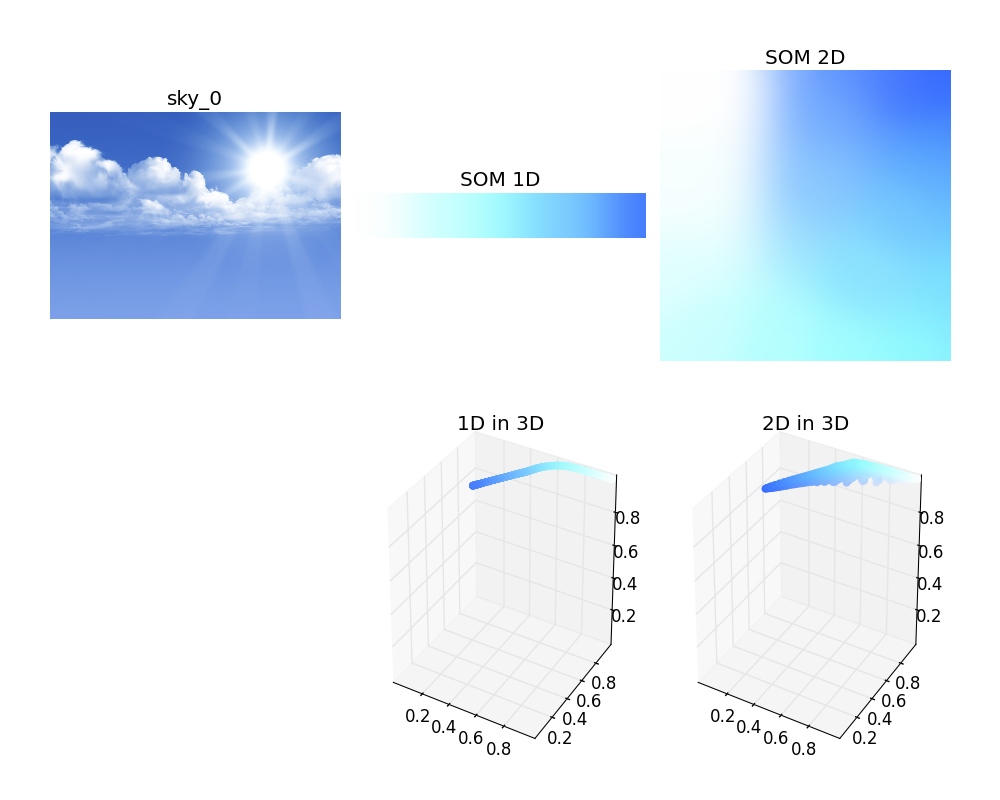
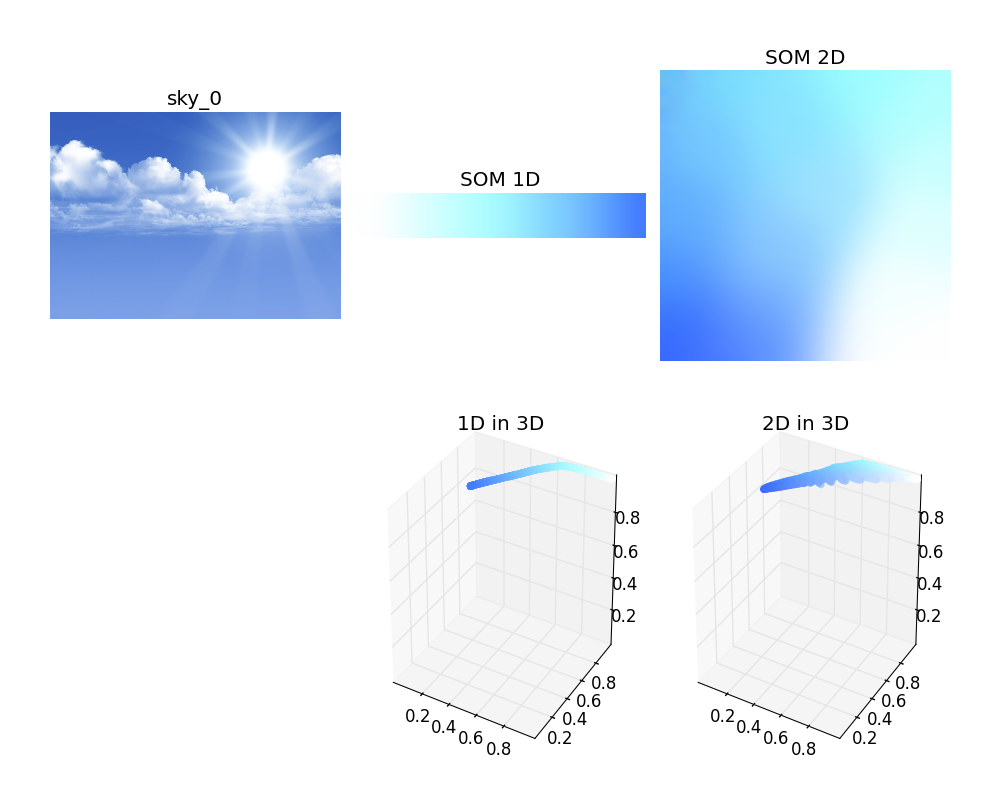
Update main modules.

Changed region(s): [[0.651, 0.0625, 0.961, 0.4688], [0.527, 0.5625, 0.558, 0.5938]]

diff --git a/som_cm/datasets/google_image.py b/som_cm/datasets/google_image.py
@@ -10,11 +10,12 @@
 import json
 import os
 import urllib2
+import httplib2
 
 import cv2
 import matplotlib.pyplot as plt
 
-from som_cm.io.image import loadRGBA, loadRGB, saveRGB
+from som_cm.io_util.image import loadRGB, saveRGB
 
 _root_dir = os.path.dirname(__file__)
 
@@ -55,68 +56,111 @@ def loadData(data_name, i):
     return loadRGB(data_file)
 
 
-def searchImages(keyword, num_images):
+## Simple image loaders via Google image API.
+class GoogleImageLoader:
+    ## Constructor
+    #  @param keyword     keyword for image search.
+    #  @param num_images  target number of images for the search.
+    #  @param update      Update existing images if the value is True.
+    def __init__(self, keyword="banana", num_images=10, update=False):
+        self._keyword = keyword
+        self._num_images = num_images
+        self._data_dir = dataDir(keyword)
+        self._update = update
 
-    url_list = []
-    url = "http://ajax.googleapis.com/ajax/services/search/images?q={0}&v=1.0&rsz=large&start={1}"
+        self.searchImageURLs()
+        self.downloadImages()
+        self.postResize()
 
-    for i in range((num_images / 8) + 1):
-        res = urllib2.urlopen(url.format(keyword, i * 8))
-        data = json.load(res)
-        url_list += [result["url"] for result in data["responseData"]["results"]]
+    def searchImageURLs(self):
+        keyword = self._keyword
+        num_images = self._num_images
 
-    return url_list
+        image_urls = []
+        google_api = "http://ajax.googleapis.com/ajax/services/search/images?q={0}&v=1.0&rsz=large&start={1}&imgc=color"
+
+        for i in range((num_images / 8) + 1):
+            res = urllib2.urlopen(google_api.format(keyword, i * 8))
+            page_data = json.load(res)
+            page_urls = [result["url"] for result in page_data["responseData"]["results"]]
+            image_urls.extend(page_urls)
+
+        if len(image_urls) >= num_images:
+            image_urls = image_urls[:num_images]
+        self._image_urls = image_urls
+        return image_urls
+
+    def downloadImages(self):
+        print "  Download"
+        data_name = self._keyword
+        num_images = self._num_images
+        image_urls = self._image_urls
+        data_dir = self._data_dir
+        if os.path.exists(data_dir) == False:
+            os.makedirs(data_dir)
+
+        http = httplib2.Http(".cache")
+
+        for i in range(len(set(image_urls))):
+            try:
+                url_name, ext = os.path.splitext(image_urls[i])
+
+                data_filename = "%s_%s%s" % (data_name, i, ext)
+                data_filepath = os.path.join(data_dir, data_filename)
+
+                if not self._update:
+                    if os.path.exists(data_filepath):
+                        print "  - Skip: %s" % data_filename
+                        continue
+
+                response, content = http.request(image_urls[i])
+
+                with open(data_filepath, 'wb') as data_file:
+                    data_file.write(content)
+
+                    print "  - Done: %s" % data_filename
+            except:
+                continue
+
+    def postResize(self):
+        print "  Post resize"
+        data_name = self._keyword
+        data_files = dataFiles(data_name)
+
+        for data_file in data_files:
+            data_filename = os.path.basename(data_file)
+            C_8U = loadRGB(data_file)
+
+            if C_8U is None:
+                os.remove(data_file)
+                print "  - Delete: %s" % data_filename
+                continue
+            h, w = C_8U.shape[0:2]
+
+            opt_scale = 800.0 / float(h)
+            opt_scale = max(opt_scale, 800.0 / float(w))
+            opt_scale = min(opt_scale, 1.0)
+
+            h_opt = int(opt_scale * h)
+            w_opt = int(opt_scale * w)
+
+            C_8U_small = cv2.resize(C_8U, (w_opt, h_opt))
+            saveRGB(data_file, C_8U_small)
+            print "  - Resized: %s" % data_filename
 
 
-def downloadImages(data_name, num_images):
-    url_list = searchImages(data_name, num_images)
-    data_dir = os.path.join(_root_dir, data_name)
-    if os.path.exists(data_dir) == False:
-        os.makedirs(data_dir)
-
-    opener = urllib2.build_opener()
-
-    for i in range(len(set(url_list))):
-        try:
-            fn, ext = os.path.splitext(url_list[i])
-            req = urllib2.Request(url_list[i], headers={"User-Agent": "Magic Browser"})
-            data_file = open(os.path.join(data_dir, "%s_%s%s" % (data_name, i, ext)), "wb")
-            data_file.write(opener.open(req).read())
-            data_file.close()
-            print("Downloaded:"+str(i+1))
-        except:
-            continue
-
-def resizeImages(data_name):
-    data_files = dataFiles(data_name)
-
-    for data_file in dataFiles(data_name):
-        C_8U = loadRGB(data_file)
-        if C_8U is None:
-            os.remove(data_file)
-            continue
-        h, w = C_8U.shape[0:2]
-        print h, w
-        opt_scale = 800.0 / float(h)
-        opt_scale = max(opt_scale, 800.0 / float(w))
-        print opt_scale
-
-        h_opt = int(opt_scale * h)
-        w_opt = int(opt_scale * w)
-
-        C_8U_small = cv2.resize(C_8U, (w_opt, h_opt))
-        saveRGB(data_file, C_8U_small)
-
-def testLoad(data_name="banana", i=0):
-    C_8U = loadData(data_name, i)
-    plt.imshow(C_8U)
-    plt.show()
+def createDataset(data_name="banana", num_images=10, update=False):
+    GoogleImageLoader(data_name, num_images, update)
 
 
-def testDownload(keyword="banana", num_images=16):
-    downloadImages(keyword, num_images)
+def createDatasets(data_names=["apple", "banana", "sky", "tulip", "flower"],
+                   num_images=10,
+                   update=False):
+    for data_name in data_names:
+        print "Create datasets: %s" % data_name
+        createDataset(data_name, num_images, update)
+
 
 if __name__ == '__main__':
-    testDownload("tulip")
-    resizeImages("tulip")
+    createDatasets()
     #testLoad(data_name="banana", i=1)

diff --git a/som_cm/core/som.py b/som_cm/core/som.py
@@ -12,7 +12,7 @@ from mpl_toolkits.mplot3d import Axes3D
 import matplotlib.pyplot as plt
 import matplotlib.animation as animation
 import cv2
-from som_cm.io.image import loadRGB
+from som_cm.io_util.image import loadRGB
 from som_cm.np.norm import normVectors
 from som_cm.datasets.google_image import loadData, dataFile
 from som_cm.cv.image import to32F
@@ -282,7 +282,10 @@ def runSOMResult(image_name, C_32F, som1D, som2D):
     plt.imshow(C_32F)
     plt.axis('off')
 
+    print "  - Train 1D"
     som1D.trainAll()
+
+    print "  - Train 2D"
     som2D.trainAll()
 
     som1D_plot = SOMPlot(som1D)
@@ -309,14 +312,19 @@ def runSOMResult(image_name, C_32F, som1D, som2D):
     #showMaximize()
 
 
-if __name__ == '__main__':
-    data_names = ["apple", "banana", "tulip", "sky"]
-    data_ids = [0, 1, 2]
-
+def runSOMResults(data_names, data_ids):
     for data_name in data_names:
+        print "SOM: %s" % data_name
         for data_id in data_ids:
+            print "Data ID: %s" % data_id
             image_file = dataFile(data_name, data_id)
             image_name = os.path.basename(image_file)
             image_name = os.path.splitext(image_name)[0]
             C_32F, som1D, som2D = setupSOM(image_file)
             runSOMResult(image_name, C_32F, som1D, som2D)
+
+if __name__ == '__main__':
+    data_names = ["apple", "banana", "tulip", "sky", "flower"]
+    data_ids = [0, 1, 2]
+
+    runSOMResults(data_names, data_ids)

diff --git a/som_cm/main.py b/som_cm/main.py
@@ -1,0 +1,16 @@
+# -*- coding: utf-8 -*-
+## @package som_cm.main
+#
+#  Main functions.
+#  @author      tody
+#  @date        2015/08/19
+from som_cm.datasets.google_image import createDatasets
+from som_cm.core.som import runSOMResults
+
+if __name__ == '__main__':
+    data_names = ["apple", "banana", "tulip", "sky", "flower"]
+    num_images = 3
+    data_ids = range(3)
+
+    createDatasets(data_names, num_images, update=False)
+    runSOMResults(data_names, data_ids)

diff --git a/som_cm/io_util/image.py b/som_cm/io_util/image.py
@@ -1,5 +1,5 @@
 # -*- coding: utf-8 -*-
-## @package som_cm.io.image
+## @package som_cm.io_util.image
 #
 #  Image IO utility package.
 #  @author      tody

diff --git a/README.md b/README.md
@@ -7,10 +7,12 @@ Simple python demos of Data-driven Color Manifolds [Nguyen et al. 2015].
 They used self-organizing maps (**SOM**) to construct data-driven **color manifolds**.
 
 ## Result
+This program can generate color manifolds for the target images.
 ![apple_0](results/apple_0.png)
 ![banana_0](results/banana_0.png)
+![flower_0](results/flower_0.png)
 ![tulip_1](results/tulip_1.png)
-![sky_13](results/sky_13.png)
+![sky_2](results/sky_2.png)
 
 ## Installation
 
@@ -35,15 +37,26 @@ This program also uses **docopt** for CLI.
 ### Install main modules
 *Status*: Under construction.
 
-<!-- You can use **pip** command for installing main modules.
+You can use **pip** command for installing main modules.
 Please run the following command from the shell.
 
 ``` bash
   > pip install git+https://github.com/tody411/SOM-ColorManifolds.git
-``` -->
+```
 
 ## Usage
-*Status*: Under construction.
+### Package Structure
+* som_cm: Main package.
+    - main.py: Main module for testing.
+* results: Result images will be saved in the directory.
+
+### Test SOM Demo
+You can test the SOM with the following command.
+``` bash
+  > python main.py
+```
+
+This command will start downloading images via Google Image API then run the SOM module to generate result images.
 
 <!-- ## API Document
 
